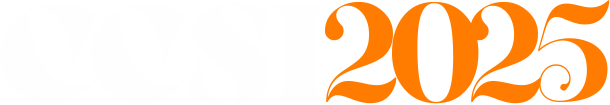
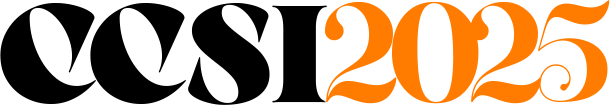
style: all text to black

Changed region(s): [[0.0, 0.0286, 0.5607, 1.0]]

diff --git a/src/components/sections/HeadlineHorizontalLoop.tsx b/src/components/sections/HeadlineHorizontalLoop.tsx
@@ -39,7 +39,7 @@ export default function HeadlineHorizontalLoop({
                 {duplicatedTexts.map((text, index) => (
                     <span
                         key={index}
-                        className="flex flex-shrink-0 items-center mx-3 sm:mx-6 text-white font-raleway"
+                        className="flex flex-shrink-0 items-center mx-3 sm:mx-6 text-black font-raleway"
                     >
                         {text.toUpperCase()}
                     </span>
